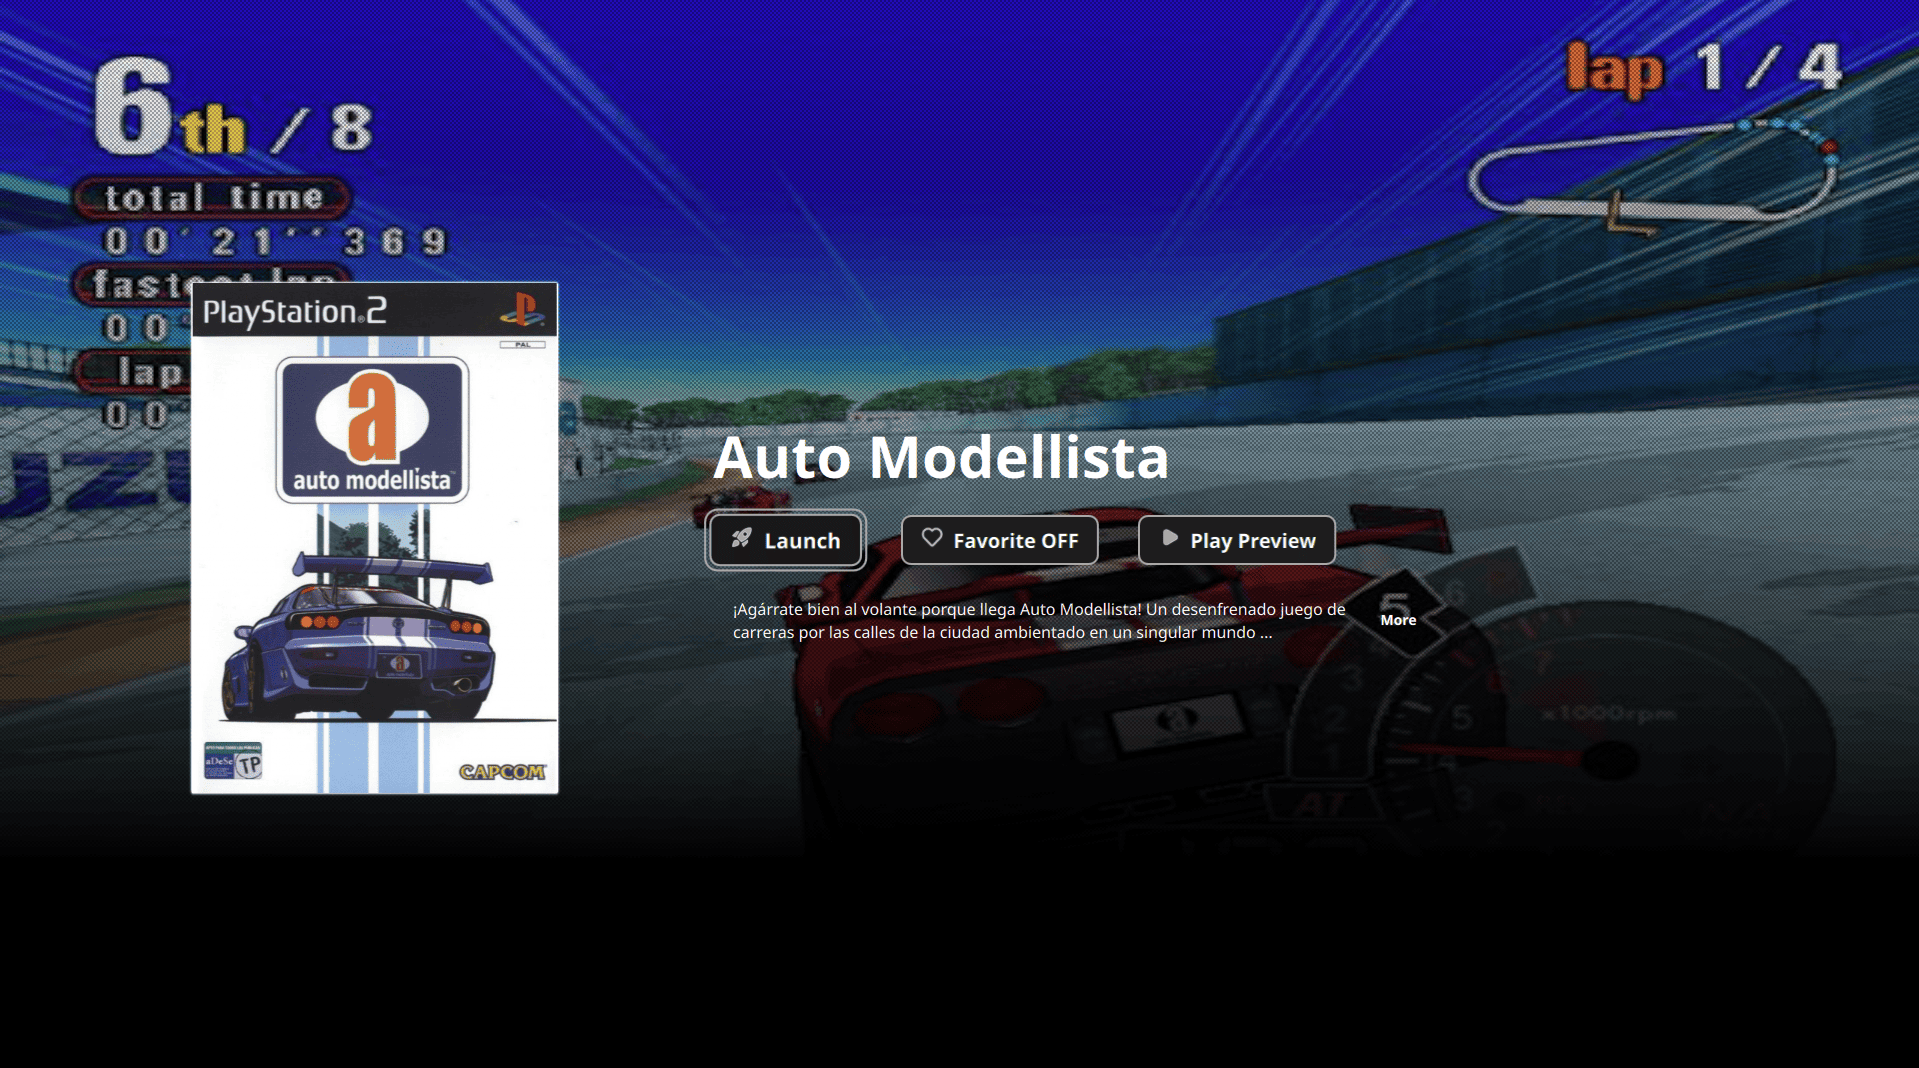
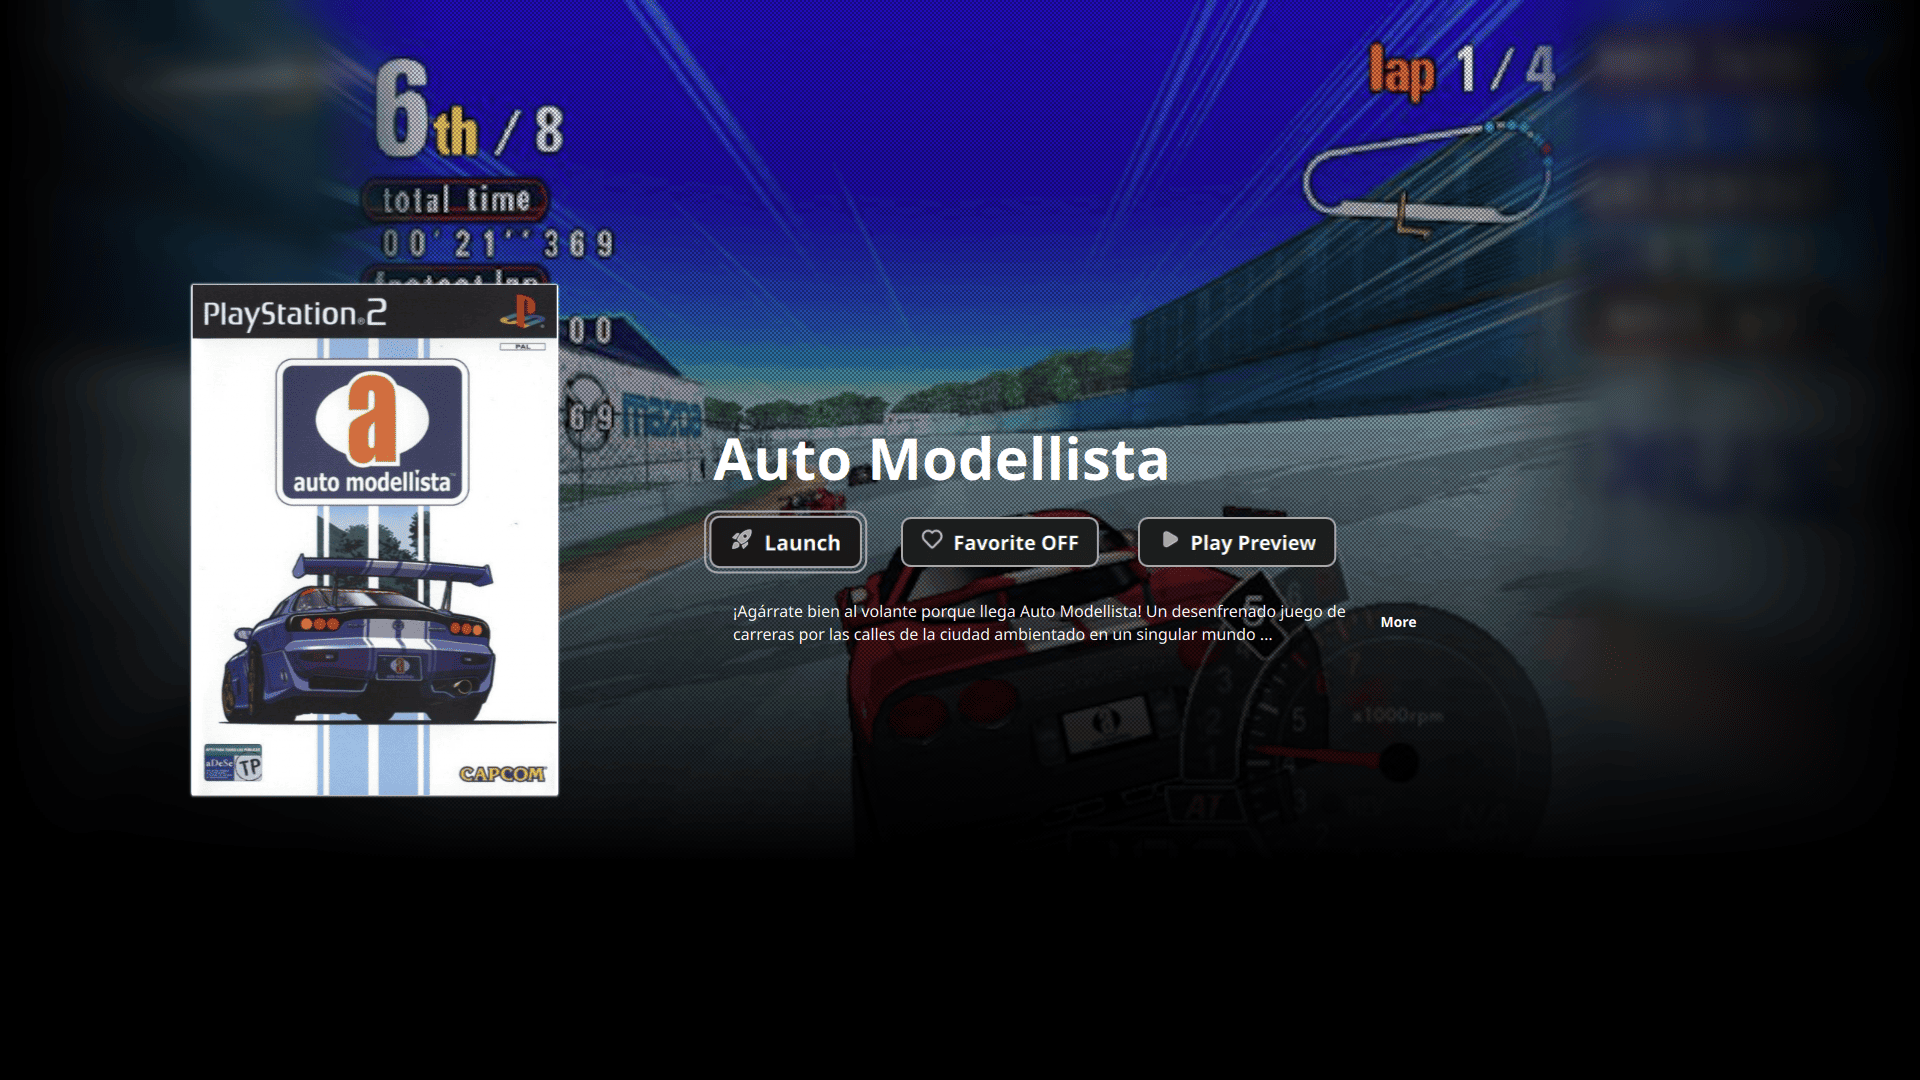
update-9-7-25

diff --git a/GameInfo.qml b/GameInfo.qml
@@ -78,10 +78,66 @@ Item {
             anchors.top: parent.top
 
             Image {
+                id: backgroundBlurImage
+                anchors.fill: parent
+                source: game && game.assets && game.assets.screenshot ? game.assets.screenshot : "assets/.no-image/no_screenshot.png"
+                fillMode: Image.PreserveAspectCrop
+                mipmap: true
+                visible: false
+                asynchronous: true
+            }
+
+            FastBlur {
+                id: backgroundBlur
+                anchors.fill: parent
+                source: backgroundBlurImage
+                radius: 60
+                opacity: 0.6
+
+                transform: Scale {
+                    origin.x: backgroundBlur.width / 2
+                    origin.y: backgroundBlur.height / 2
+                    xScale: -1
+                }
+            }
+
+            LinearGradient {
+                id: leftEdgeGradient
+                anchors.left: parent.left
+                anchors.top: parent.top
+                anchors.bottom: parent.bottom
+                width: parent.width * 0.15
+                start: Qt.point(0, 0)
+                end: Qt.point(width, 0)
+
+                gradient: Gradient {
+                    GradientStop { position: 0.0; color: "black" }
+                    GradientStop { position: 0.7; color: "#40000000" }
+                    GradientStop { position: 1.0; color: "#00000000" }
+                }
+            }
+
+            LinearGradient {
+                id: rightEdgeGradient
+                anchors.right: parent.right
+                anchors.top: parent.top
+                anchors.bottom: parent.bottom
+                width: parent.width * 0.15
+                start: Qt.point(width, 0)
+                end: Qt.point(0, 0)
+
+                gradient: Gradient {
+                    GradientStop { position: 0.0; color: "black" }
+                    GradientStop { position: 0.7; color: "#40000000" }
+                    GradientStop { position: 1.0; color: "#00000000" }
+                }
+            }
+
+            Image {
                 id: backgroundImage
                 anchors.fill: parent
-                source: game && game.assets && game.assets.screenshot ? game.assets.screenshot : "assets/no-image/defaultimage.png"
-                fillMode: Image.Stretch
+                source: game && game.assets && game.assets.screenshot ? game.assets.screenshot : "assets/.no-image/no_screenshot.png"
+                fillMode: Image.PreserveAspectFit
                 mipmap: true
                 visible: false
                 asynchronous: true
@@ -89,17 +145,33 @@ Item {
 
             ShaderEffect {
                 id: scanDotEffect
-                anchors.fill: parent
+                anchors.centerIn: parent
+                width: {
+                    if (backgroundImage.status === Image.Ready) {
+                        var imgRatio = backgroundImage.sourceSize.width / backgroundImage.sourceSize.height;
+                        var containerRatio = parent.width / parent.height;
+                        return imgRatio > containerRatio ? parent.width : parent.height * imgRatio;
+                    }
+                    return parent.width;
+                }
+                height: {
+                    if (backgroundImage.status === Image.Ready) {
+                        var imgRatio = backgroundImage.sourceSize.width / backgroundImage.sourceSize.height;
+                        var containerRatio = parent.width / parent.height;
+                        return imgRatio > containerRatio ? parent.width / imgRatio : parent.height;
+                    }
+                    return parent.height;
+                }
+
                 property variant source: backgroundImage
                 property real scanOpacity: 0.3
                 property real dotSpacing: 2.0
-
+                visible: false
                 fragmentShader: "
                 uniform sampler2D source;
                 uniform lowp float scanOpacity;
                 uniform highp float dotSpacing;
                 varying highp vec2 qt_TexCoord0;
-
                 void main() {
                 vec4 baseColor = texture2D(source, qt_TexCoord0);
                 highp vec2 pix = gl_FragCoord.xy;
@@ -112,13 +184,34 @@ Item {
             }
             "
             }
+
+            LinearGradient {
+                id: fadeGradient
+                anchors.fill: scanDotEffect
+                visible: false
+                start: Qt.point(0, 0)
+                end: Qt.point(scanDotEffect.width, 0)
+
+                gradient: Gradient {
+                    GradientStop { position: 0.0; color: "#00000000" }
+                    GradientStop { position: 0.1; color: "#FF000000" }
+                    GradientStop { position: 0.9; color: "#FF000000" }
+                    GradientStop { position: 1.0; color: "#00000000" }
+                }
+            }
+
+            OpacityMask {
+                anchors.fill: scanDotEffect
+                source: scanDotEffect
+                maskSource: fadeGradient
+            }
         }
 
         Image {
             id: defaultImage
             anchors.fill: parent
             fillMode: Image.PreserveAspectCrop
-            source: "assets/no-image/defaultimage.png"
+            source: "assets/.no-image/no_screenshot.png"
             mipmap: true
             visible: backgroundImage.status === Image.Error
             asynchronous: true
@@ -156,7 +249,7 @@ Item {
                     anchors.centerIn: parent
                     width: parent.width * 0.8
                     height: parent.height * 0.5
-                    source: game && game.assets && game.assets.boxFront ? game.assets.boxFront : "assets/no-image/defaultimage.png"
+                    source: game && game.assets && game.assets.boxFront ? game.assets.boxFront : "assets/.no-image/defaultimage.png"
                     fillMode: Image.PreserveAspectFit
                     asynchronous: true
                     layer.enabled: true
@@ -173,7 +266,7 @@ Item {
                     anchors.centerIn: parent
                     width: parent.width * 0.8
                     height: parent.height * 0.5
-                    source: "assets/no-image/defaultimage.png"
+                    source: "assets/.no-image/defaultimage.png"
                     fillMode: Image.PreserveAspectFit
                     asynchronous: true
                     visible: boxArt.status === Image.Error

diff --git a/GamesGridView.qml b/GamesGridView.qml
@@ -388,7 +388,7 @@ GridView {
                     Image {
                         id: noImage
                         visible: gameImage.status !== Image.Ready
-                        source: isSelected ? "assets/no-image/no-image-white.png" : "assets/no-image/no-image-black.png"
+                        source: isSelected ? "assets/.no-image/no-image-white.png" : "assets/.no-image/no-image-black.png"
                         anchors.centerIn: parent
                         fillMode: Image.PreserveAspectFit
                         width: parent.width * 0.60
